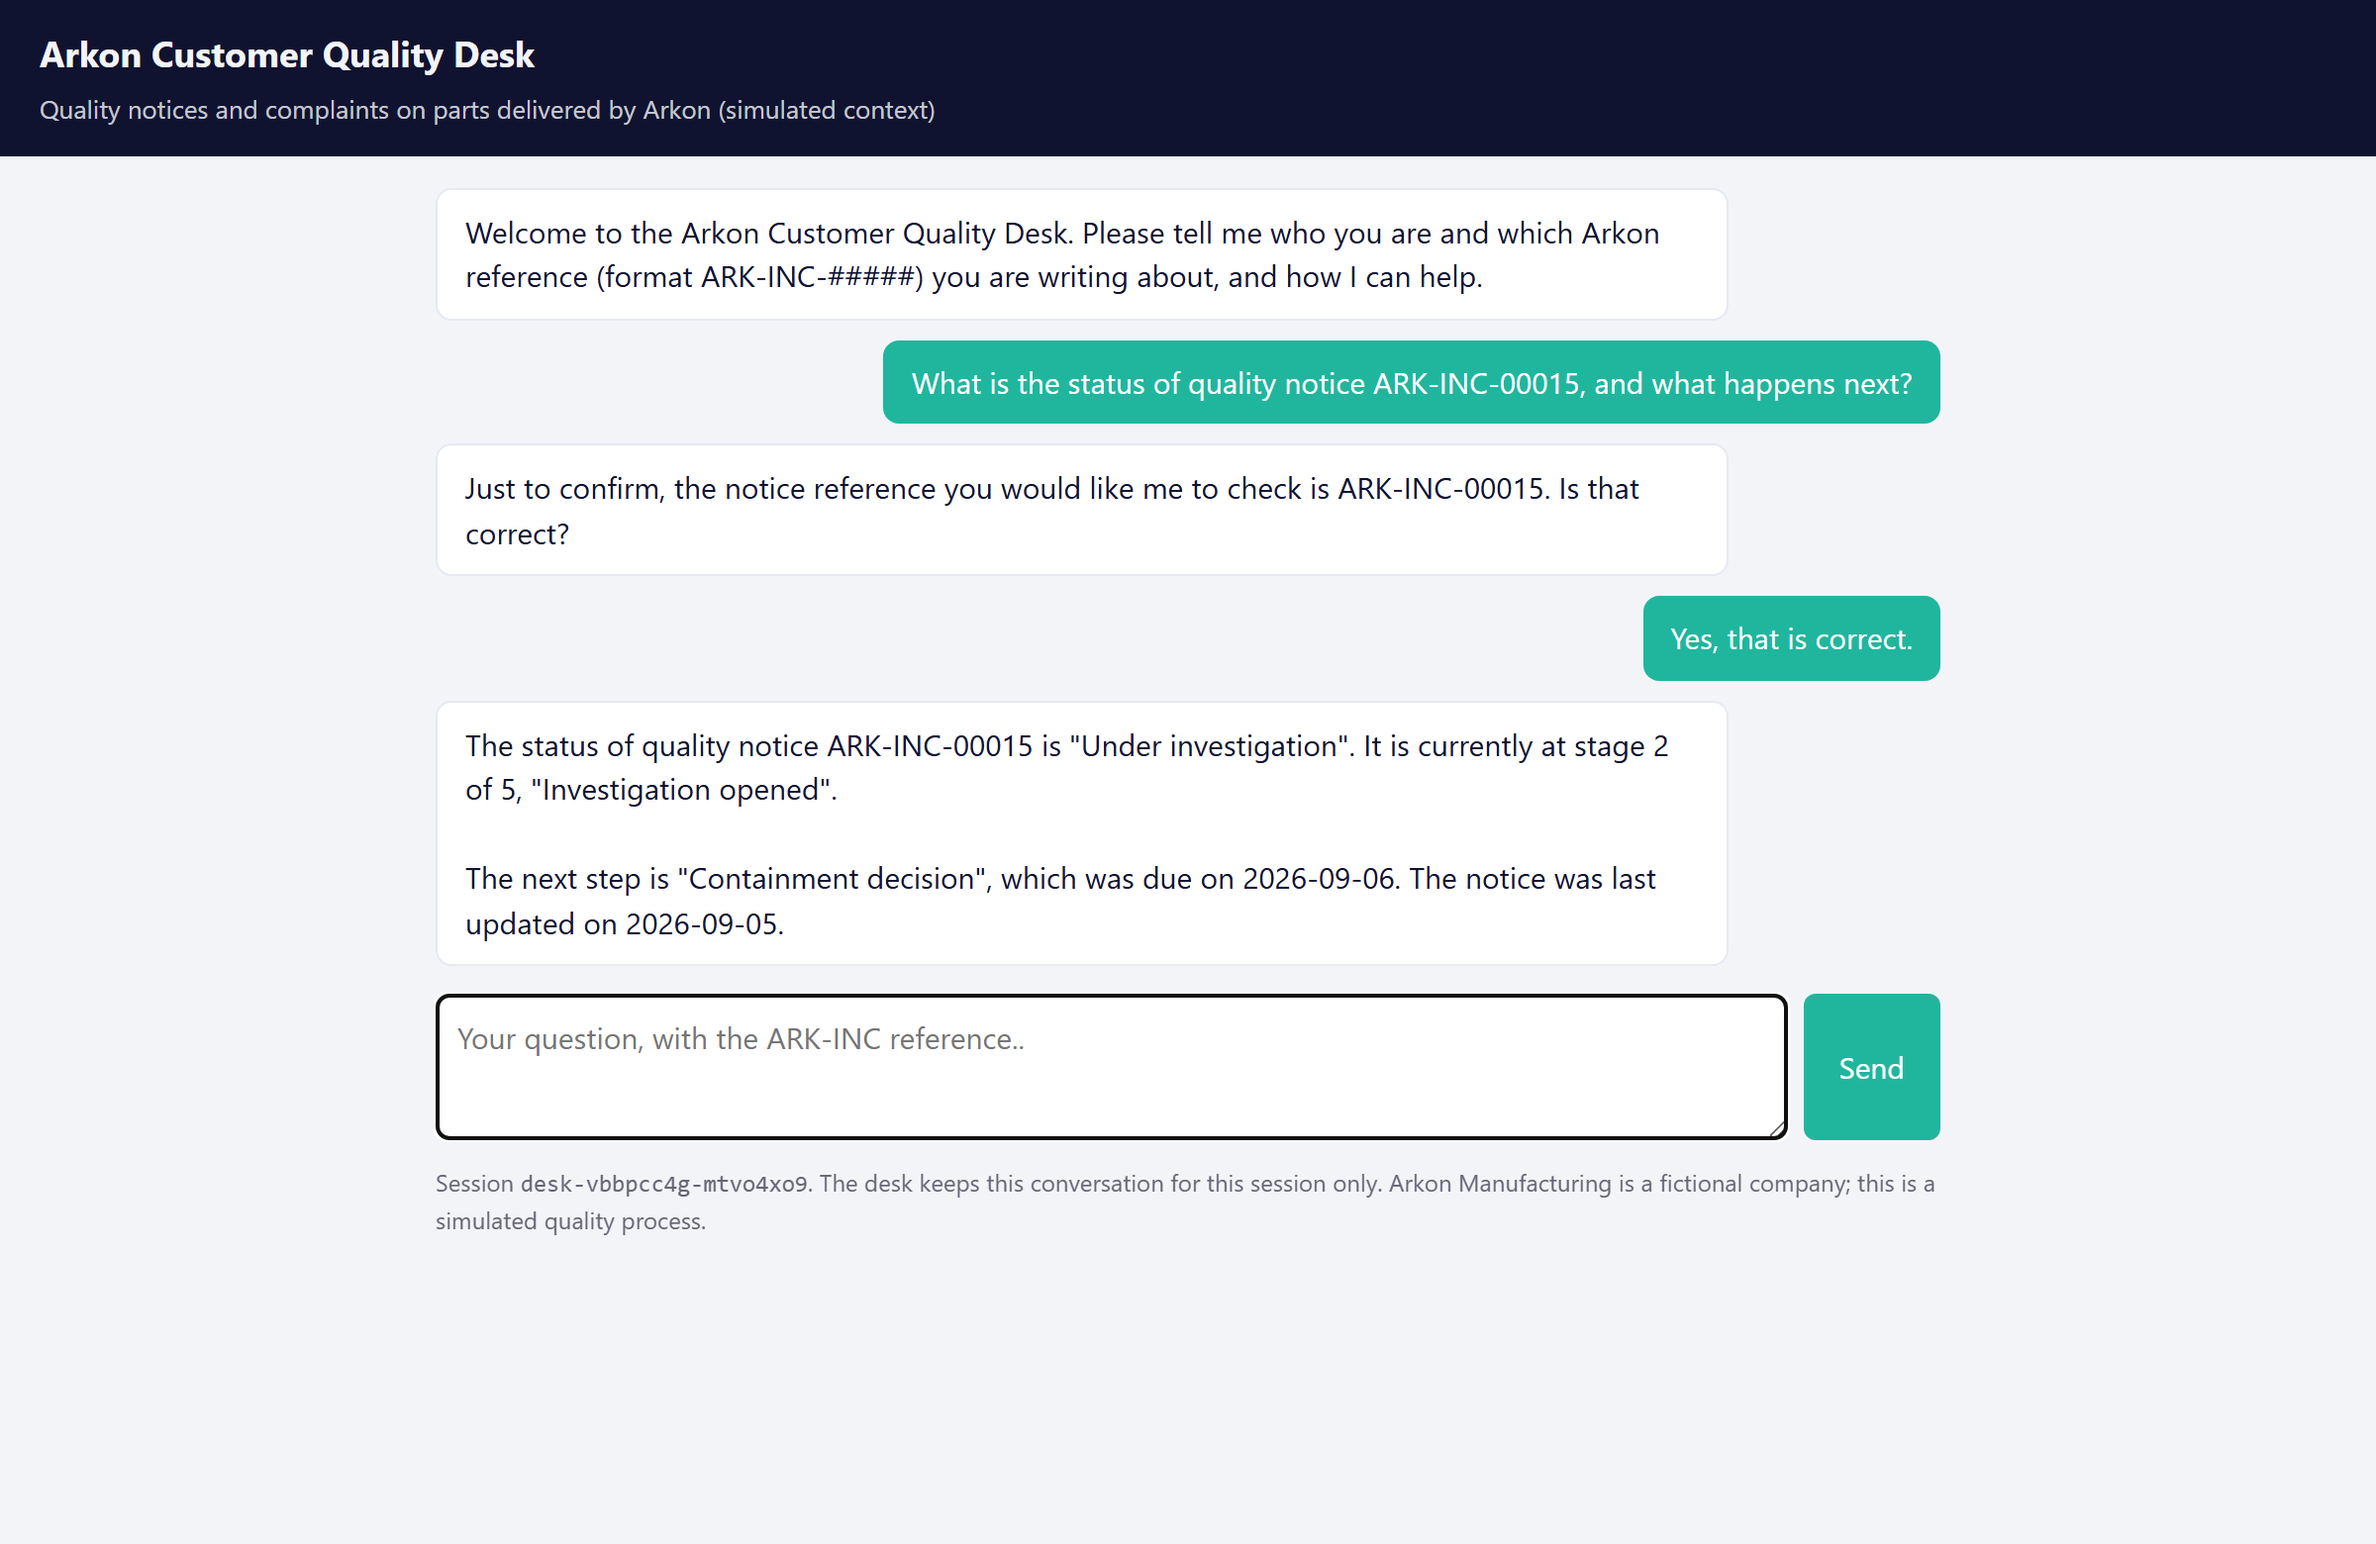
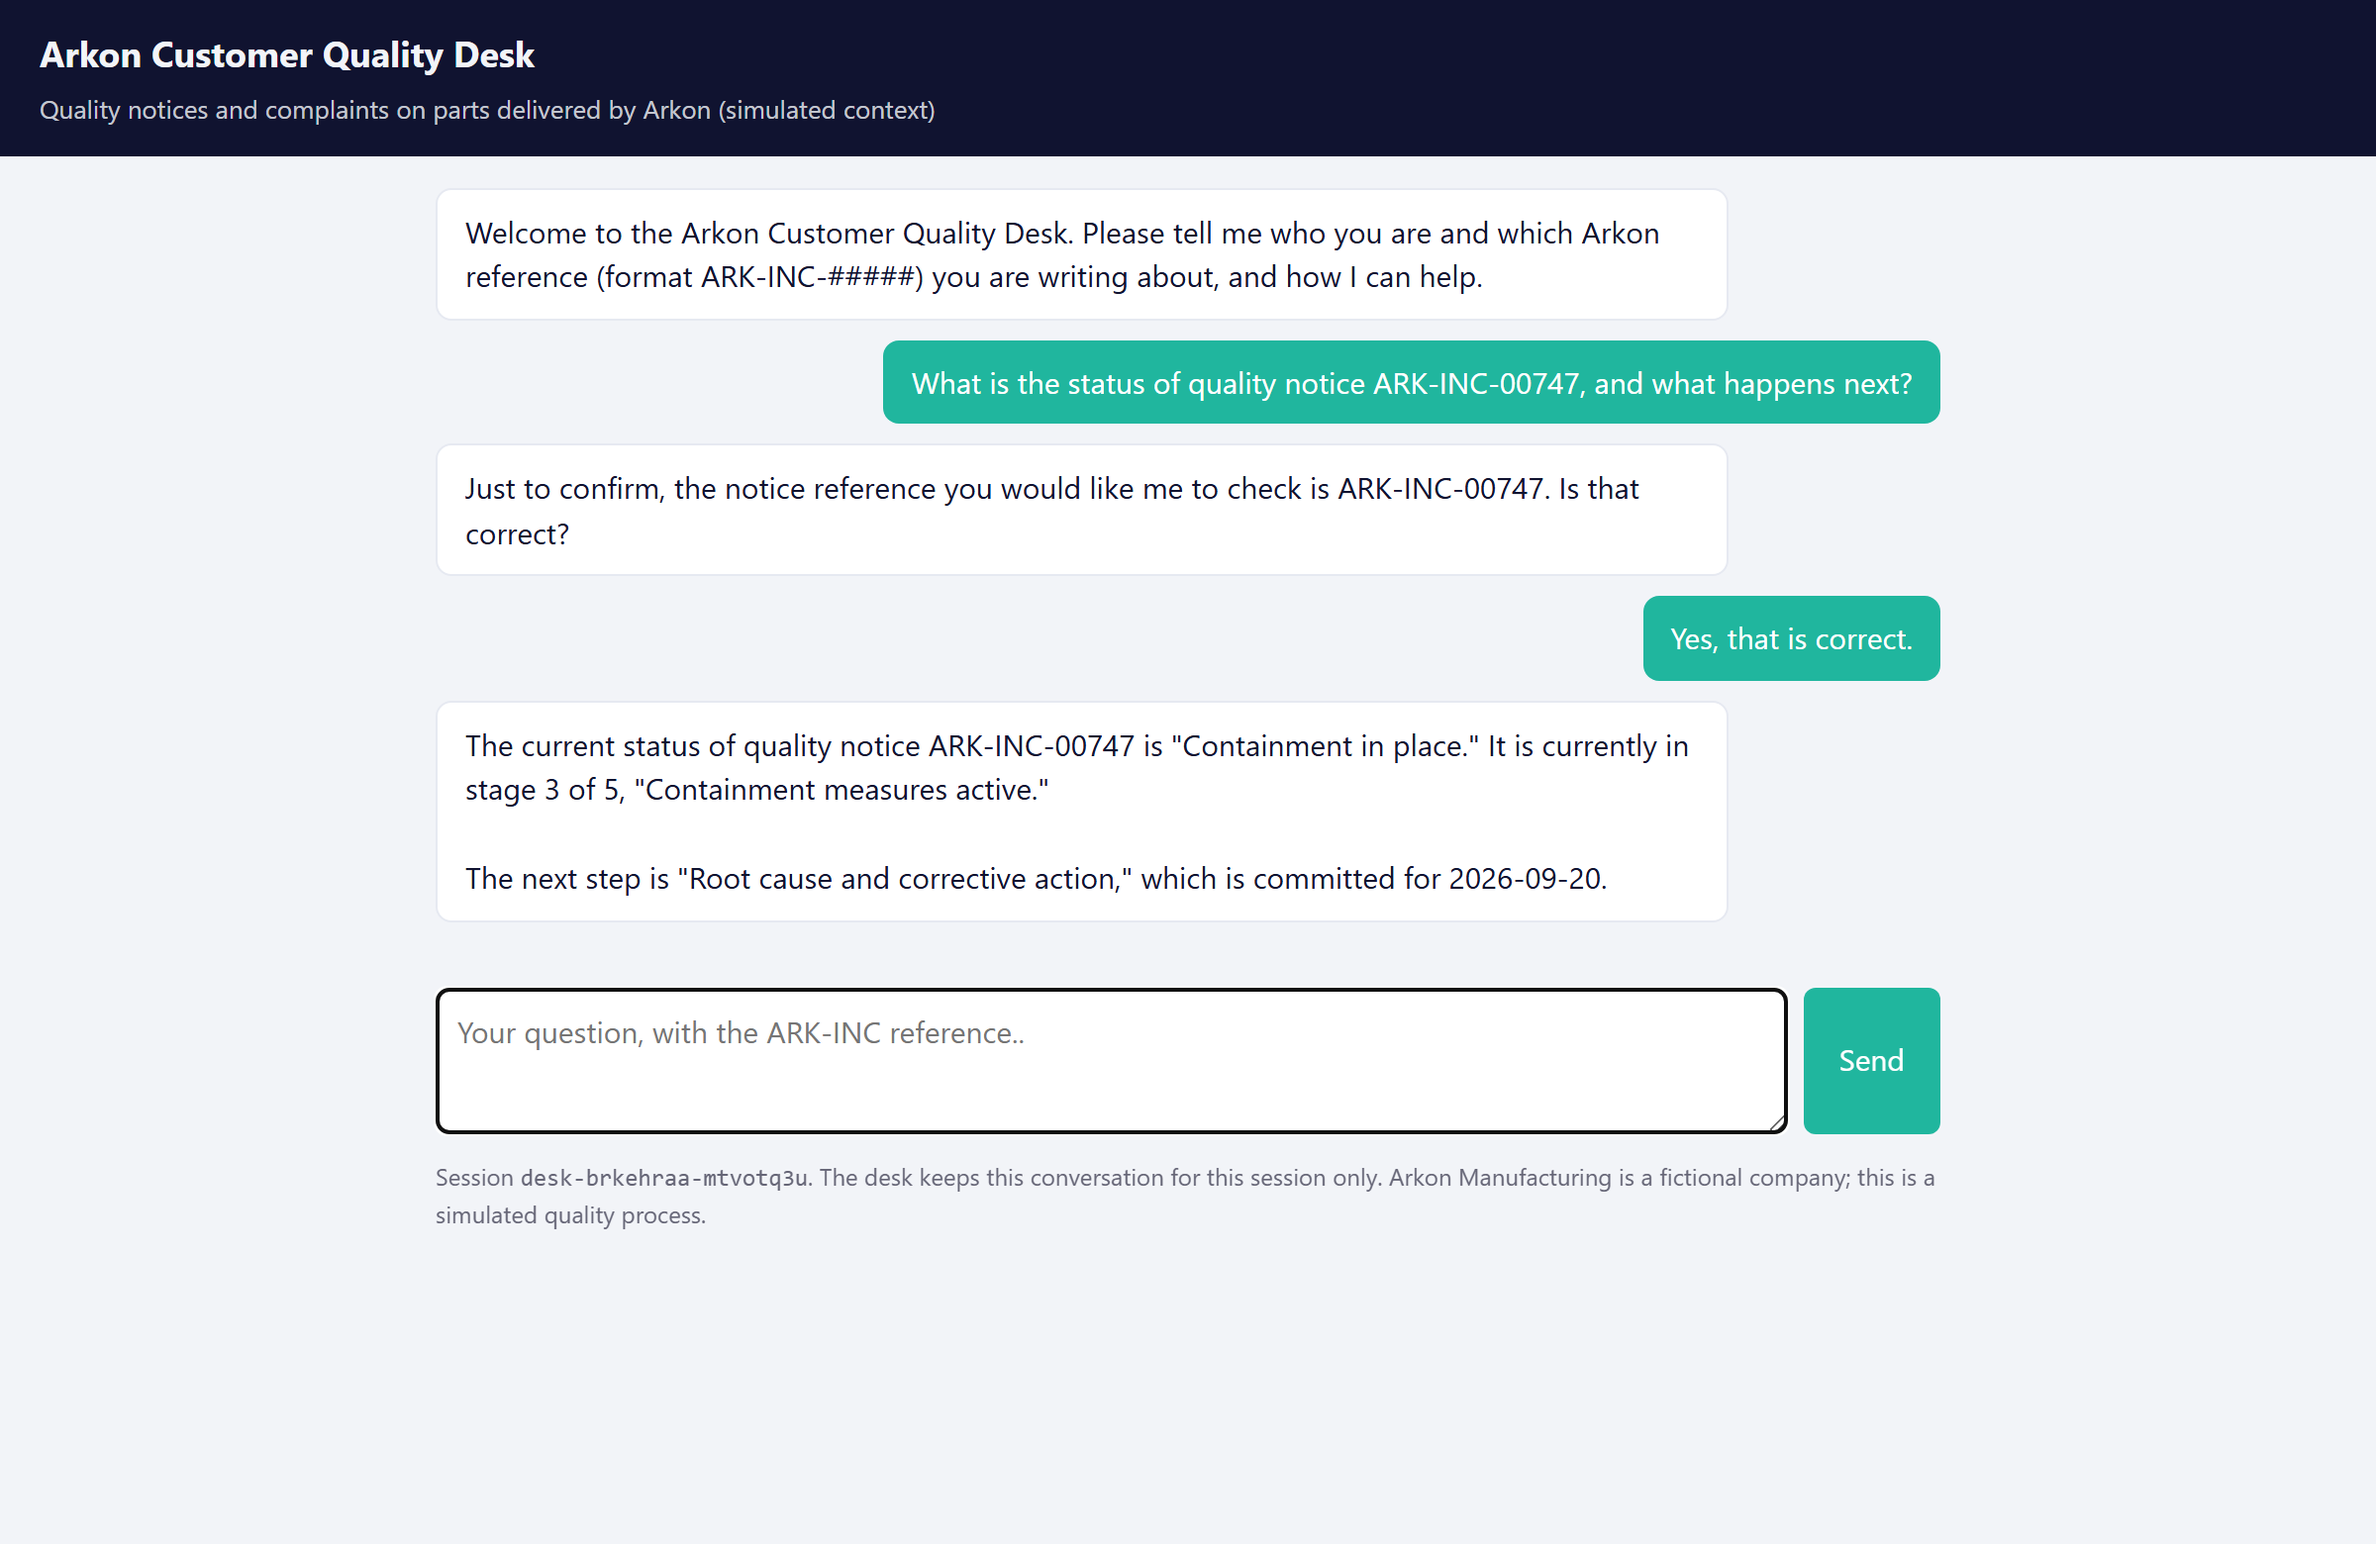
Retake the desk picture on the fixed build, and let the caption carry both branches
The figure now shows the deployed behaviour rather than the behaviour of an hour
earlier. The run picked ARK-INC-00747 on its own, which is on time, so the frame
carries the ordinary case: containment in place, stage 3 of 5, root cause and
corrective action committed for 2026-09-20, and no mention of overdue because
there is nothing to mention. That is the better everyday picture of a five-stage
process, and it arrived by the run-time pick rather than by choosing it.

The caption is rewritten rather than trimmed, because the previous one described
a frame that no longer exists: it opened on a notice past its committed date and
that notice is not in this picture. What it says instead is the part worth
keeping - taking the picture is what found the defect, and the rule was measured
in both directions, with the late sentence quoted beside the on-time one that is
visible above it. A rule that fired in only one of them would not have been a fix,
and a caption that showed only one of them would not have been evidence.

diff --git a/README.md b/README.md
@@ -339,14 +339,15 @@ object the endpoint returns. Regenerate it with `py tools/make_desk_screenshot.p
 picks an open notice at run time rather than shipping a reference that will have closed
 by the time anyone looks.
 
-The notice in the frame is **past its committed date** - the picture was taken on
-2026-09-10 and the containment decision was due on the 6th - which is what an untended
-incident looks like in a plant that keeps running, and it is left in rather than waited
-out for a tidier one. **Taking this picture is also what found the last defect in the
-desk**: it reported the date and stopped there, although the projection it reads serves
-`next_step.overdue` beside it. The prompt uses the flag as of the same day, so the desk
-now answers "which was due on 2026-09-06 and is now overdue", and the frame above
-predates that by an hour. `py tools/make_desk_screenshot.py` refreshes it.
+**Taking this picture is what found the last defect in the desk**, which is an argument
+for photographing a system rather than describing it. The first capture landed on a
+notice four days past its committed date, and the desk reported the date and stopped
+there, although the projection it reads serves `next_step.overdue` beside it. The prompt
+uses the flag as of 2026-09-10 and was measured in both directions on the deployed build:
+a late notice now answers "which was due on 2026-09-06 and is now overdue", and the
+notice in the frame above, which is on time, answers "which is committed for 2026-09-20"
+without mentioning it at all. Both sentences are the same rule, and a rule that fired in
+only one of them would not have been a fix.
 
 ![The Customer Quality Desk](assets/ui/customer_desk.png)
 
